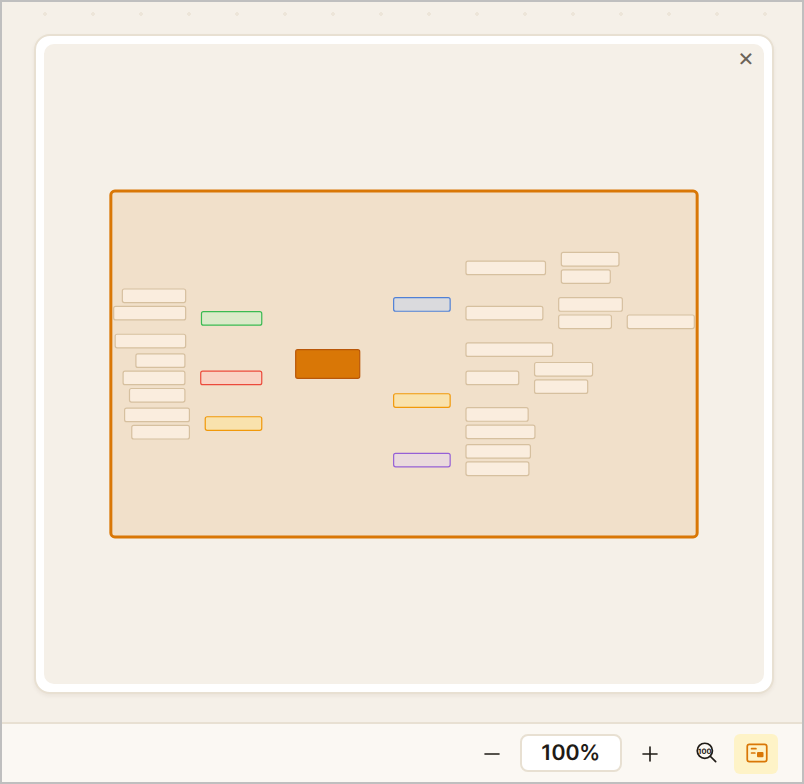
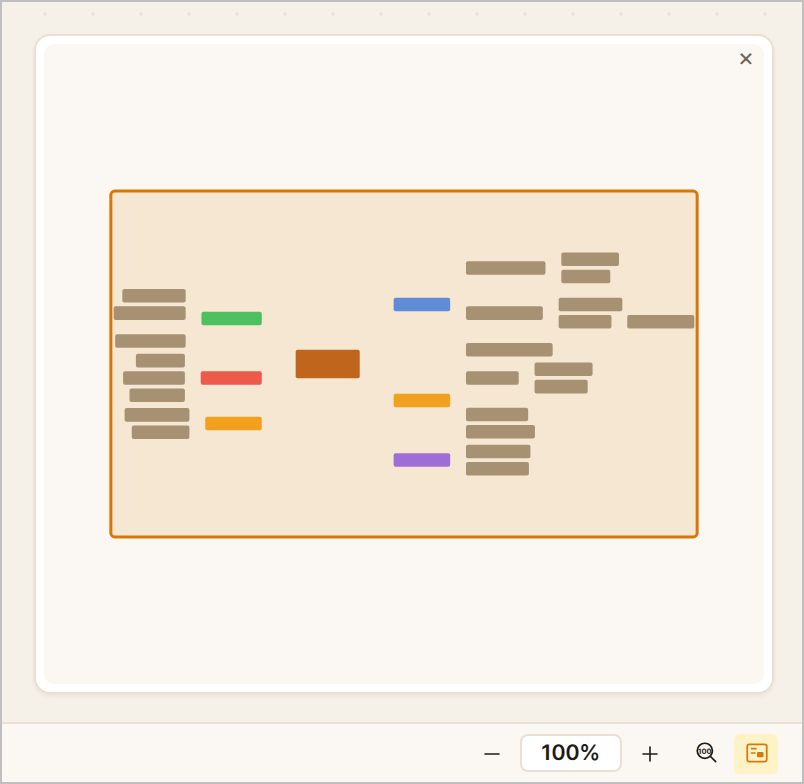
미니맵: 끄는 중 가장자리로 밀면 창이 흐른다 · 휠로 창 넘기기 · 노드는 진한 색 + 다크 접힘 숫자 시인성 (e2e291 ⑧-b~d · e2e296 ③-b)
사용자 보고 "미니맵 배경색과 맵 색이 비슷해 구분이 안 된다" · "전체 맵이
클 때 표시창을 끝으로 옮기면 빨리빨리 전체 맵이 표시되지 않는다" ·
"다크모드에서 접기 숫자의 시인성이 떨어진다".

- minimapMath.MinimapOriginMode: auto(가만히) / follow(끄는 중 — 표시창이
  밖으로 나간 만큼만 창이 따라와 가장자리에 붙는다) / hold(휠 뒤). 휠은
  shiftOrigin 으로 창만 옮긴다(화면은 그대로, 캔버스 줌으로 안 간다)
- Minimap: 노드를 팔레트 테두리색(없으면 textSubtle)으로, 배경 surfaceAlt,
  창 밖 노드는 안 그린다
- Canvas 접힘 칩 숫자색 = readableTextOn(t.primary): 다크 #F59E0B 위엔 어두운 글자
- 단위 35 · 브라우저 35(미니맵) + 13(다중 선택·다크 칩) PASS
- 문서: 10-canvas §6.8, 03-node-indicator 접힘 칩, 가이드 04, test-catalog 246차

Claude-Session: https://claude.ai/code/session_01PHMCTbMKMt1Nq2yNJHcjEs

Changed region(s): [[0.4664, 0.3061, 0.8706, 0.6122], [0.1244, 0.3673, 0.4664, 0.5816], [0.4664, 0.4898, 0.5597, 0.5204]]

diff --git a/apps/frontend/src/editor/canvas/Minimap.tsx b/apps/frontend/src/editor/canvas/Minimap.tsx
@@ -4,18 +4,23 @@
 //   · 지금 보이는 영역이 사각형으로 — 크기 = 캔버스 창 px ÷ 배율, 최소 60×45
 //   · 사각형을 끌면 화면이 따라 움직이고, 빈 곳을 누르면 그 자리가 중앙
 //   · 패널은 항상 같은 크기. 맵이 크면 화면 주변만 보이는 창이 된다
-//     (2026-09-21 "창과 표시창이 너무 작다" 보고 뒤) — 창은 사각형이
-//     가장자리에 닿을 때만 옮겨 가고, 끄는 동안은 고정이다.
+//     (2026-09-21 "창과 표시창이 너무 작다" 보고 뒤) — 가만히 있을 땐 사각형이
+//     가장자리에 닿을 때만 창이 옮겨 가고, **끄는 동안은 사각형을 가장자리로
+//     미는 만큼 창이 흐른다**(2026-09-21 "끝으로 옮기면 전체 맵이 빨리 안
+//     보인다" 보고). 휠을 굴리면 창만 움직여 다른 곳을 볼 수 있다(클릭하면 이동).
+//   · 노드는 팔레트의 **테두리색(진한 색)** 으로 칠한다 — 채움색은 캔버스와
+//     비슷해 구분이 안 됐다(2026-09-21 보고). 색이 없는 하위 노드는 textSubtle.
 // 좌표 계산은 minimapMath.ts (단위 테스트), 사양은 10-canvas.md §6.8.
 
-import { useMemo, useRef, useState } from 'react';
+import { useEffect, useMemo, useRef, useState } from 'react';
 import type { PointerEvent as ReactPointerEvent } from 'react';
 import type { ThemeTokens } from '@/components/design-tokens/theme';
 import type { LaidOutNode } from '@/layout/types';
 import { resolveNodeColors } from '@/editor/node-renderer/resolveNodeColors';
 import { useViewportStore } from '@/stores/viewportStore';
 import {
-  minimapGeometry, minimapPanelSize, miniToWorld, panForCenter, viewportWorldRect, worldBounds, worldToMini,
+  minimapGeometry, minimapPanelSize, miniToWorld, panForCenter, shiftOrigin, viewportWorldRect, worldBounds, worldToMini,
+  type MinimapOriginMode,
 } from './minimapMath';
 
 interface Props {
@@ -43,10 +48,34 @@ export function Minimap({ t, nodes, W, H, CX, CY, onClose }: Props) {
   const viewWorld = viewportWorldRect(W, H, CX, CY, panX, panY, zoom);
   // 직전 영역 — 창 모드에서 사각형이 가장자리에 닿기 전까지는 그대로 둔다
   const originRef = useRef<{ x: number; y: number; scale: number } | null>(null);
+  // 휠로 창을 옮긴 뒤에는 표시창과 무관하게 그 창을 지킨다 (다음 클릭·끌기까지)
+  const [hold, setHold] = useState(false);
+  const mode: MinimapOriginMode = dragging ? 'follow' : hold ? 'hold' : 'auto';
   const { panelW, panelH } = minimapPanelSize(W, H);
-  const geom = minimapGeometry(nodeBounds, viewWorld, panelW, panelH, originRef.current, dragging);
+  const geom = minimapGeometry(nodeBounds, viewWorld, panelW, panelH, originRef.current, mode);
   originRef.current = { x: geom.bounds.x, y: geom.bounds.y, scale: geom.scale };
   const view = worldToMini(geom, viewWorld);
+  const geomRef = useRef(geom); geomRef.current = geom;
+  const boundsRef = useRef(nodeBounds); boundsRef.current = nodeBounds;
+  const [, bump] = useState(0);
+
+  // 휠 = 창 옮기기 (맵이 창보다 클 때). preventDefault 가 필요해 non-passive 로 단다.
+  useEffect(() => {
+    const el = svgRef.current;
+    if (!el) return;
+    const onWheel = (e: WheelEvent) => {
+      const g = geomRef.current;
+      if (g.fits) return;
+      e.preventDefault(); e.stopPropagation();
+      const dx = e.shiftKey ? e.deltaY : e.deltaX;
+      const dy = e.shiftKey ? 0 : e.deltaY;
+      const o = shiftOrigin(g, boundsRef.current, dx, dy);
+      originRef.current = { x: o.x, y: o.y, scale: g.scale };
+      setHold(true); bump((n) => n + 1);
+    };
+    el.addEventListener('wheel', onWheel, { passive: false });
+    return () => el.removeEventListener('wheel', onWheel);
+  }, []);
 
   const miniPoint = (e: ReactPointerEvent) => {
     const r = svgRef.current?.getBoundingClientRect();
@@ -61,6 +90,7 @@ export function Minimap({ t, nodes, W, H, CX, CY, onClose }: Props) {
   const onPointerDown = (e: ReactPointerEvent<SVGSVGElement>) => {
     if (e.button !== 0) return;
     e.stopPropagation();
+    setHold(false);
     const m = miniPoint(e);
     const inside = m.x >= view.x && m.x <= view.x + view.w && m.y >= view.y && m.y <= view.y + view.h;
     // 사각형 안에서 시작 = 그 간격을 유지하며 끌기 · 밖 = 그 자리가 중앙이 되고 이어서 끌기
@@ -112,23 +142,27 @@ export function Minimap({ t, nodes, W, H, CX, CY, onClose }: Props) {
         data-minimap-scale={geom.scale}
         data-minimap-origin={`${geom.bounds.x},${geom.bounds.y}`}
         data-minimap-fits={geom.fits ? '1' : '0'}
+        data-minimap-mode={mode}
         onPointerDown={onPointerDown}
         onPointerMove={onPointerMove}
         onPointerUp={onPointerUp}
         onPointerCancel={onPointerUp}
         onClick={(e) => e.stopPropagation()}
-        style={{ display: 'block', cursor: dragging ? 'grabbing' : 'grab', overflow: 'hidden', borderRadius: 5, background: t.canvas }}
+        style={{ display: 'block', cursor: dragging ? 'grabbing' : 'grab', overflow: 'hidden', borderRadius: 5, background: t.surfaceAlt }}
       >
         {nodes.map((n) => {
           const c = resolveNodeColors(n, t);
           const r = worldToMini(geom, { x: n.x - n.w / 2, y: n.y - n.h / 2, w: n.w, h: n.h });
+          // 창 밖 노드는 그리지 않는다 (900 노드 맵에서도 가볍게)
+          if (r.x + r.w < 0 || r.y + r.h < 0 || r.x > geom.panelW || r.y > geom.panelH) return null;
+          // 대비 — 색 계열이 있는 노드는 그 계열의 진한 테두리색, 없는 하위 노드는 textSubtle
+          const fill = n.style?.fillColor ?? (c === t.nodeL2 ? t.textSubtle : c.border);
           return (
             <rect
               key={n.id}
               x={r.x} y={r.y} width={Math.max(2, r.w)} height={Math.max(1.5, r.h)} rx={1}
-              fill={n.style?.fillColor ?? c.fill}
-              stroke={n.style?.borderColor ?? c.border}
-              strokeWidth={0.6}
+              fill={fill}
+              fillOpacity={0.9}
             />
           );
         })}

diff --git a/apps/frontend/src/editor/canvas/minimapMath.ts b/apps/frontend/src/editor/canvas/minimapMath.ts
@@ -78,14 +78,23 @@ export function minimapPanelSize(W: number, H: number): { panelW: number; panelH
 
 const clamp = (v: number, lo: number, hi: number) => Math.min(hi, Math.max(lo, v));
 
+/** 창(영역) 원점을 어떻게 정하나 — Minimap 컴포넌트의 상태에서 온다 */
+export type MinimapOriginMode =
+  /** 가만히 있을 때: 표시창이 가장자리(6%) 안에 있으면 직전 창 유지, 아니면 표시창 중심으로 */
+  | 'auto'
+  /** 끄는 중: 직전 창을 두되 표시창이 밖으로 나가면 **그만큼만** 따라온다(가장자리에 붙는다) —
+   *  이렇게 하면 사각형을 가장자리로 밀고 있는 동안 맵이 계속 흐른다 (2026-09-21 "끝으로
+   *  옮기면 전체 맵이 빨리 안 보인다" 보고) */
+  | 'follow'
+  /** 휠로 창을 옮긴 뒤: 표시창과 무관하게 직전 창 그대로 (다음 클릭·끌기 전까지) */
+  | 'hold';
+
 /**
  * 미니맵 기하.
  *   · scale = max(맵 전체가 들어가는 배율, 표시창이 60×45 가 되는 배율)
  *   · 영역(bounds) = 패널 ÷ scale. 축마다: 맵이 그 안에 들어가면 **맵을 가운데**,
- *     안 들어가면 **표시창 중심을 가운데**로 두되 맵 경계 밖으로는 나가지 않는다.
- *   · `prev`(직전 영역)가 있으면 **표시창이 가장자리(6% 여백) 안에 있는 동안은
- *     그대로 둔다** — 끌 때마다 창이 따라 움직이면 사각형이 제자리에 서고 맵이
- *     흐르는 조이스틱이 된다. `freeze` 는 끄는 중(포인터 잡고 있는 동안) 무조건 유지.
+ *     안 들어가면 mode 대로 (`MinimapOriginMode`) — 어느 경우든 맵 경계 밖으로는 안 나간다.
+ *   · 배율이 바뀌면 직전 창은 버린다.
  */
 export function minimapGeometry(
   nodeBounds: Rect | null,
@@ -93,7 +102,7 @@ export function minimapGeometry(
   panelW: number,
   panelH: number,
   prev?: { x: number; y: number; scale: number } | null,
-  freeze = false,
+  mode: MinimapOriginMode = 'auto',
 ): MinimapGeom {
   const pb = paddedBounds(nodeBounds);
   const fitScale = Math.min(panelW / pb.w, panelH / pb.h);
@@ -106,9 +115,17 @@ export function minimapGeometry(
     if (mapLen <= winLen) return mapLo + mapLen / 2 - winLen / 2; // 맵이 들어간다 → 가운데
     const lo = mapLo, hi = mapLo + mapLen - winLen;
     if (prevLo !== undefined) {
+      if (mode === 'hold') return clamp(prevLo, lo, hi);
+      if (mode === 'follow') {
+        // 표시창이 창 밖으로 나간 만큼만 민다 — 사각형은 가장자리에 붙고 창이 흐른다
+        let next = prevLo;
+        if (viewLo < next) next = viewLo;
+        else if (viewLo + viewLen > next + winLen) next = viewLo + viewLen - winLen;
+        return clamp(next, lo, hi);
+      }
       const m = winLen * 0.06;
       const inside = viewLo >= prevLo + m && viewLo + viewLen <= prevLo + winLen - m;
-      if (freeze || inside) return prevLo;
+      if (inside) return prevLo;
     }
     return clamp(viewLo + viewLen / 2 - winLen / 2, lo, hi);
   };
@@ -116,6 +133,19 @@ export function minimapGeometry(
   const x = axis(pb.x, pb.w, view.x, view.w, winW, usePrev?.x);
   const y = axis(pb.y, pb.h, view.y, view.h, winH, usePrev?.y);
   return { bounds: { x, y, w: winW, h: winH }, scale, panelW, panelH, fits };
+}
+
+/** 휠로 창을 옮긴다 — mini px 만큼, 맵 경계 안에서. 맵이 창에 들어가는 축은 움직이지 않는다 */
+export function shiftOrigin(
+  g: MinimapGeom, nodeBounds: Rect | null, dxMini: number, dyMini: number,
+): { x: number; y: number } {
+  const pb = paddedBounds(nodeBounds);
+  const one = (mapLo: number, mapLen: number, winLen: number, cur: number, d: number) =>
+    mapLen <= winLen ? cur : clamp(cur + d / g.scale, mapLo, mapLo + mapLen - winLen);
+  return {
+    x: one(pb.x, pb.w, g.bounds.w, g.bounds.x, dxMini),
+    y: one(pb.y, pb.h, g.bounds.h, g.bounds.y, dyMini),
+  };
 }
 
 export function worldToMini(g: MinimapGeom, r: Rect): Rect {

diff --git a/apps/frontend/src/editor/canvas/minimapMath.test.ts b/apps/frontend/src/editor/canvas/minimapMath.test.ts
@@ -3,7 +3,7 @@
 
 import {
   MINIMAP_MIN_VIEW, minimapGeometry, minimapPanelSize, miniToWorld, paddedBounds, panForCenter,
-  viewportWorldRect, worldBounds, worldToMini,
+  shiftOrigin, viewportWorldRect, worldBounds, worldToMini,
 } from './minimapMath';
 
 let failed = 0;
@@ -72,12 +72,25 @@ check('⑦ 창 안에서 움직이면 창은 그대로', g2.bounds.y, prev.y);
 const far = { ...view, y: view.y + 6000 };                // 창 밖으로
 const g3 = minimapGeometry(tall, far, 288, 288, prev);
 check('⑦ 창 밖으로 나가면 창이 따라온다 (표시창 중심으로)', r2(g3.bounds.y + g3.bounds.h / 2), r2(far.y + far.h / 2));
-const g4 = minimapGeometry(tall, far, 288, 288, prev, true);
-check('⑦ 끄는 동안은 밖으로 나가도 창 고정', g4.bounds.y, prev.y);
+// 끄는 중(follow): 표시창이 창 밖으로 나간 **만큼만** 창이 따라온다 — 사각형이 가장자리에 붙는다
+const g4 = minimapGeometry(tall, far, 288, 288, prev, 'follow');
+check('⑦ 끄는 중 밖으로 나가면 창이 그만큼만 따라온다 (아래 끝이 표시창 아래 끝)', r2(g4.bounds.y + g4.bounds.h), r2(far.y + far.h));
+check('⑦ 끄는 중 창 안이면 그대로', minimapGeometry(tall, moved, 288, 288, prev, 'follow').bounds.y, prev.y);
+const up = { ...view, y: prev.y - 300 };                  // 위로 조금 넘김
+check('⑦ 위로 넘기면 위 끝이 표시창 위 끝', r2(minimapGeometry(tall, up, 288, 288, prev, 'follow').bounds.y), r2(up.y));
+// 휠 뒤(hold): 표시창이 어디 있든 직전 창 그대로
+check('⑦ hold 는 밖으로 나가도 창 그대로', minimapGeometry(tall, far, 288, 288, prev, 'hold').bounds.y, prev.y);
 const top = { ...view, y: -20000 };                       // 맵 위 끝(−7200) 너머
 const g5 = minimapGeometry(tall, top, 288, 288);
 check('⑦ 창은 맵 경계 밖으로 나가지 않는다 (위 끝에서 멈춤)', r2(g5.bounds.y), r2(paddedBounds(tall).y));
 check('⑦ 배율이 바뀌면 직전 창은 버린다', minimapGeometry(tall, moved, 288, 288, { ...prev, scale: prev.scale * 2 }).bounds.y !== prev.y, true);
+
+// ⑦-b 휠로 창 옮기기 — mini px ÷ 배율만큼, 맵 경계 안에서, 맵이 들어가는 축(가로)은 그대로
+const o1 = shiftOrigin(gt, tall, 50, 120);
+check('⑦-b 세로로 120px ÷ 배율', r2(o1.y - gt.bounds.y), r2(120 / gt.scale));
+check('⑦-b 가로는 맵이 창에 들어가니 안 움직인다', o1.x, gt.bounds.x);
+const o2 = shiftOrigin(gt, tall, 0, -1e9);
+check('⑦-b 위로 아무리 굴려도 맵 위 끝(여백 포함)에서 멈춘다', r2(o2.y), r2(paddedBounds(tall).y));
 
 // ⑧ 왕복 — world ↔ mini
 const wr = { x: 500, y: 100, w: 300, h: 200 };

diff --git a/apps/frontend/src/editor/canvas/Canvas.tsx b/apps/frontend/src/editor/canvas/Canvas.tsx
@@ -40,6 +40,7 @@ import { EdgeRenderer } from '@/editor/edge-renderer/EdgeRenderer';
 import { collapseAnchor, type FallbackDir } from '@/editor/canvas/collapseAnchor';
 import { CollabCursor } from '@/editor/collaboration/CollabCursor';
 import { Minimap } from './Minimap';
+import { readableTextOn } from '@/editor/node-renderer/resolveNodeColors';
 import { COLLAB_PRESENCE_UI } from '@/config/featureFlags';
 import { ProCursorLayer } from '@pro';
 import { zoneAxesFor, zoneAt } from './dropGeometry';
@@ -1926,12 +1927,15 @@ function CollapseControl({
     return wrap(
       <>
         <circle r={r} fill={t.primary} stroke={t.primary} strokeWidth="1.4" />
+        {/* 숫자 색은 칩 밝기에 맞춘다 — 다크 테마의 primary(#F59E0B)는 밝은
+            주황이라 흰 글자가 묻혔다 (2026-09-21 보고 "다크모드에서 접기
+            숫자 시인성이 떨어진다"). 라이트(#D97706)는 그대로 흰 글자. */}
         <text
           y={3.4}
           textAnchor="middle"
           fontSize="9.5"
           fontWeight={700}
-          fill="#fff"
+          fill={readableTextOn(t.primary)}
         >{label}</text>
       </>,
       `펼치기 — 숨은 노드 ${count}개`,

diff --git a/docs/05-implementation/test-catalog.md b/docs/05-implementation/test-catalog.md
@@ -124,11 +124,11 @@
 | e2e288 | **Pan 모드에서 노드가 딸려 오던 것 + [모두 펼치기·접기]의 범위를 선택에 맞춘다** (2026-09-21 사용자 요청 둘) | 구성: 진짜 vite + 크로미움 + **진짜 에디터**. 접힘은 화면에 몇 개 그려졌나가 아니라 **문서의 `collapsed`** 로 가리고, 선택은 스토어로 직접 세운다. **① Pan** — 배지 문구 · 노드를 끌어도 **중심 기준 좌표가 그대로**(473,−244 → 473,−244)이고 화면만 끌린다(722 → 942) · 모드를 끄면 노드 드래그가 화면을 끌지 않는다. **② 범위** — 선택 없음: 전체 접기/펼치기 · **보통 노드**: 그 아래만 (★ 같은 날 오후 e2e289 에서 **고른 노드 자신까지 접는 쪽**으로 뒤집혔다 — 이 행의 기대값도 그때 함께 고쳤다) · 다른 가지는 건드리지 않는다 · ★**중심 선택은 선택 없음과 같다**(셈으로도 같다 — 중심의 하위 = 맵 전체). **17항목 PASS** · 단위 `expandScope.test.ts` **13항목**(중심이 섞인 다중 선택 포함) · 되돌려 깨짐 확인(Pan 모드에서 노드가 473 → 719 로 끌려간다). ★ **함정** — 맵을 열면 **노드 하나가 이미 선택돼 있다**(실측 `sel=b1-2`). "선택 없음" 을 클릭만으로 만들려다 시험이 헛돌았다 — 스토어로 `select(null)` 해야 한다. ★ **뒤집은 결정** — 2026-07 에는 "Pan 모드여도 노드는 움직인다" 였다(모드 표시가 없어 고장난 줄 알았기 때문). 지금은 배지·테두리·커서가 모드를 말하므로 **모드가 한 가지 일만 한다**. ⊞/⊟ 전용 단추는 ＋/− 와 같은 일이 되어 **없앴다**(§5-1-6) | 10-canvas §6.5 · §21.2-A |
 | e2e293 | **문서함 [↻ 새로고침] — 폴더·내 맵·공유받은 맵을 다시 읽는다** (2026-09-21 사용자 요청: "공유받은 문서 목록을 갱신하려고 Ctrl+F5 를 누른다 — 내 문서함 뒤에 새로고침 버튼") | 구성: 인증 모드 vite + 진짜 크로미움(`scripts/doc-shots/guide01-browser-refresh.mjs`), API 는 route 스텁(phase 0: A맵 · phase 1: A·B맵 + 공유 S맵, 두 번째 `/maps` 는 700ms 지연). ① 버튼이 "내 문서" 바로 오른쪽, 첫 목록에 A맵만 ② 서버 상태를 바꾼 뒤 클릭 → 읽는 동안 `↻ 읽는 중…` + 비활성, 끝나면 **`/folders`·`/maps`·`/maps/shared` 각 +1**, 새로 저장된 B맵과 **공유받은 S맵**이 목록에, 버튼 다시 활성 ③ 두 번째 클릭도 +1/+1/+1. **9항목 PASS**(2회 연속). 알아 둘 것: 문서함을 열면 첫 목록을 두 번 읽는다(mount 효과 + lastSavedAt 효과 — 예전부터 그랬다, 이번 범위 아님) | document-library §5 |
 | e2e292 | **MCP — ChatGPT 에서 쓸 수 있나 + 도구 힌트(`annotations`)** (2026-09-21 사용자 질문: "ChatGPT 채팅창으로도 MCP 맵 도구를 쓸 수 있나? 어떻게 설정하나?") | 구성: `test:mcp` 의 JSON-RPC 단위(`mcp-jsonrpc.test.mjs`) — 전체 41항목 PASS(새로 6). **판정** — ChatGPT 개발자 모드의 커스텀 MCP 커넥터 요건(Streamable HTTP · OAuth · 동적 클라이언트 등록)은 §10 으로 **이미 갖춰져 있었다**. 빈 것은 `readOnlyHint` 하나 — ChatGPT 는 이 힌트가 없는 도구를 전부 쓰기로 보고 **맵 목록·읽기까지 매번 확인 창**을 띄운다. 그래서 여덟 도구에 `annotations` 를 달았다: ①읽기 전용은 `list_maps`·`get_map`·`get_open_map` 셋 ②나머지 다섯은 `readOnlyHint:false` ③`destructiveHint:true` 는 **있는 내용을 바꾸는** `check_items`·`update_map_from_github` 둘(Codex P2 — 규격에서 false 는 "덧붙이기만" 약속이라 체크 한 글자도 true) ④덧붙이기만 하는 셋은 false ⑤GitHub 로 나가는 둘만 `openWorldHint` ⑥힌트 없는 도구 없음. **한계(정직하게)** — OpenAI 문서 사이트가 이 컨테이너의 프록시에 막혀 원문을 못 읽었고(검색 요약이 일치하는 부분만 썼다), **ChatGPT 화면을 실제로 눌러 본 것도 아니다** — 유료 요금제가 필요하고 확정은 사용자가 붙여 보는 것으로 난다(§12.4 에 모르는 것 넷). `tools/list` 에 필드가 하나 늘 뿐이라 claude.ai 커넥터는 다시 등록하지 않아도 된다 | mcp-connector.md §12 · user-guide 12 §2-D · api-spec 40a |
-| e2e291 | **미니맵 — 우하단 축소 전체 보기, 화면 사각형 끌어서 이동** (2026-09-21 사용자 요청: "100% 보기 아이콘 다음에 미니맵 아이콘, 클릭하면 열리고 화면 해상도에 맞춘 보기 창을 드래그, 토글 키 Alt+M 또는 Alt+H") | 구성: vite 개발 서버 + 진짜 크로미움(`scripts/doc-shots/guide04-minimap.mjs`), 샘플 맵. ① 처음엔 닫힘 → 상태바 버튼 → 패널이 캔버스 우하단, 버튼 켜진 색, 노드 사각형 10개 넘게 ② ★ 화면 사각형 크기 = **캔버스 창 px ÷ 배율 × 미니맵 배율**(실측 267×158 = 1556×918 ÷ 92%) ③ 200% → 너비 절반 ④ 사각형을 40×20px 끌면 pan 이 −40/배율·−20/배율 만큼, 사각형도 그만큼 이동 ⑤ 빈 곳 (8,8) 클릭 → 사각형 중심이 (8,8) ⑥ `Alt+M` 닫힘/열림, `Alt+H` 닫힘 + **Pan 모드는 그대로**, `H` 단독은 여전히 Pan 토글 ⑦ 패널 × → 닫힘 + 버튼 꺼진 색. ⑧ ★ **900 노드 맵**(가지 300 × 하위 2): 패널은 그대로 창의 24%×36%(360×320), `fits=0` 창 모드, 표시창 ≥ 60×45(실측 78×47), 패널 안에 다 보임, 30px 끌기 → pan −30/배율, 놓은 뒤에도 패널 안 ⑨ ★ 60% 에서 열면 **100%** 로 + 화면 중앙 world 점 그대로, 연 뒤 150% 자유, 다시 열면 또 100% (2026-09-21 사용자 보고 "창과 표시창이 너무 작다" + "열 때는 100% 로"). **26항목 PASS**(2회 연속) · 단위 `minimapMath.test.ts` 29항목(경계·화면 영역·panForCenter 왕복·고정 패널·fits/창 모드·창 유지/따라오기/고정/경계·mini↔world 왕복) · 가이드 04 스크린샷 2장이 같은 스크립트에서 나온다 | 10-canvas §6.8 |
+| e2e291 | **미니맵 — 우하단 축소 전체 보기, 화면 사각형 끌어서 이동** (2026-09-21 사용자 요청: "100% 보기 아이콘 다음에 미니맵 아이콘, 클릭하면 열리고 화면 해상도에 맞춘 보기 창을 드래그, 토글 키 Alt+M 또는 Alt+H") | 구성: vite 개발 서버 + 진짜 크로미움(`scripts/doc-shots/guide04-minimap.mjs`), 샘플 맵. ① 처음엔 닫힘 → 상태바 버튼 → 패널이 캔버스 우하단, 버튼 켜진 색, 노드 사각형 10개 넘게 ② ★ 화면 사각형 크기 = **캔버스 창 px ÷ 배율 × 미니맵 배율**(실측 267×158 = 1556×918 ÷ 92%) ③ 200% → 너비 절반 ④ 사각형을 40×20px 끌면 pan 이 −40/배율·−20/배율 만큼, 사각형도 그만큼 이동 ⑤ 빈 곳 (8,8) 클릭 → 사각형 중심이 (8,8) ⑥ `Alt+M` 닫힘/열림, `Alt+H` 닫힘 + **Pan 모드는 그대로**, `H` 단독은 여전히 Pan 토글 ⑦ 패널 × → 닫힘 + 버튼 꺼진 색. ⑧ ★ **900 노드 맵**(가지 300 × 하위 2): 패널은 그대로 창의 24%×36%(360×320), `fits=0` 창 모드, 표시창 ≥ 60×45(실측 78×47), 패널 안에 다 보임, 30px 끌기 → pan −30/배율, 놓은 뒤에도 패널 안 ⑨ ★ 60% 에서 열면 **100%** 로 + 화면 중앙 world 점 그대로, 연 뒤 150% 자유, 다시 열면 또 100% (2026-09-21 사용자 보고 "창과 표시창이 너무 작다" + "열 때는 100% 로"). ⑧-b ★ 끄는 중 사각형을 아래 끝으로 밀면 모드 `follow` 로 창 원점이 내려가고(창이 흐른다) 사각형은 패널 아래 끝에 붙는다, 놓으면 `auto` ⑧-c 휠 −200(CSS −100) → 창 원점 −100/배율, 모드 `hold`, **화면(pan·배율)은 그대로**, 클릭하면 풀린다 ⑧-d 노드 색이 배경(surfaceAlt)과 다르고 l1B 가지는 진한 파랑 `#3B82F6` (2026-09-21 보고 "배경과 맵 색이 비슷해 구분이 안 된다" · "끝으로 옮기면 전체 맵이 빨리 안 보인다"). **35항목 PASS**(2회 연속) · 단위 `minimapMath.test.ts` 35항목(경계·화면 영역·panForCenter 왕복·고정 패널·fits/창 모드·auto 유지/따라오기·follow 가장자리 붙기·hold·경계·휠 shiftOrigin·mini↔world 왕복) · 가이드 04 스크린샷 2장이 같은 스크립트에서 나온다. ★ 함정: vite 를 띄운 채 브랜치를 바꾸면 HMR 로 스토어 모듈이 두 벌 떠 캔버스가 옛 맵을 그린다(DOM 30 노드 vs 스토어 300 가지) — vite 를 다시 띄우면 정상 | 10-canvas §6.8 |
 | e2e290 | **MCP — GitHub 저장소 문서 → 새 맵 · 저장소 변경 반영(노드 단위)** (2026-09-21 사용자 요청: "github 저장소를 지정하면 문서 폴더 하위 문서들을 새맵으로 — 폴더 트리 그대로, 파일 제목 노드 + GitHub URL 하이퍼링크, 목차 2레벨까지 노드(중요 표·내용은 노트), 최종 업데이트 시간을 노트로" · "OOO 맵을 업데이트 해줘" · "OOO 맵의 OOO 노드를 업데이트" · "현재 선택한 노드의 내용을 업데이트" · "파일 단위 및 2레벨 목차 단위까지") | 구성: 단위 `apps/api/test/github-docs.test.mjs` **81항목**(`test:mcp`) + `mcp-jsonrpc.test.mjs` 갱신(도구 여덟 · 이름 예외 하나). 새 파일 `mcp/github-client.ts`(GitHub REST: 기본 브랜치·트리·파일별 마지막 커밋·raw 원문, `GITHUB_TOKEN` 선택, 한도 문장) · `mcp/github-docs.ts`(순수: 저장소 지정 해석 · 문서 폴더 판정 · `##`·`###` 절 나누기 · 폴더 트리→맵 · 갱신 계획·적용) · `mcp-tools.ts` 도구 둘. **확인** ① 저장소 지정: `owner/repo`·https·`.git`·`tree/브랜치/경로`, 빈 값·owner 만·이상한 글자 거절 ② 문서 폴더 자동(docs/doc/…, 대소문자)·마크다운만·바이트순·blob sha ③ 절 나누기: front matter 걷기 · 펜스 안 `#` 은 견출 아님 · 표·목록·코드(lang)·인용문 · `####` 는 굵은 글 · 사진 줄 버림 · 제목 없는 문서 · `##` 없는 `###` ④ 맵: 루트 출처 노트 왕복 · 폴더 먼저·README 먼저·이름순 · 1레벨 색·방향 · 폴더/문서 링크·라벨 · `최종 업데이트: 시각 · 커밋 · 파일` 왕복 · 머리말 문단·표 노트 · `##`→자식·`###`→손자 · 커밋 모름 "(알 수 없음)" · id 전부 유일 ⑤ 계획: 추가·수정·삭제·그대로 · 옛 맵(sha 없음)은 커밋 시각 비교(뒤면 수정·앞이면 그대로) · 폴더·문서 범위 · 범위 판정(폴더·문서·절·전체·아님) · 절 제목 사슬 ⑥ 적용: 원본 불변 · 수정 노드 id 유지 · 갱신 노트 새것 · 절은 제목으로 짝지어 id 유지, 없어진 절 삭제·새 절 추가 · 생성 노트만 교체·사용자 노트 보존 · 사용자 노드 보존 · 루트 "가져옴" 갱신 · 1레벨 색 유지 · 빈 폴더 함께 삭제 · 새 폴더 사슬(폴더는 문서 앞) · **절 범위는 그 절만**(문서 제목·갱신 노트·다른 절 그대로) · 사라진 절은 알리고 둔다 · 다른 저장소 링크 무시 ⑦ Codex 지적 둘 반영: 트리는 문서 폴더 아래만 재귀(가짜 fetch 로 한 층씩 내려감 확인)·잘리면 중단, 출처 경로의 공백 왕복. **한계(정직하게)** — 진짜 GitHub·DB·Claude 대화로는 못 재 봤다(이 컨테이너는 GitHub API 연결이 막혀 있다). dev 배포 뒤 "okpojung/easymindmap 저장소의 docs/user-guide 폴더를 emm 새 맵으로" → "그 맵을 업데이트 해줘" 로 확인이 남았다. 익명은 문서 50개까지 — 더 크면 API 서버 `GITHUB_TOKEN` | mcp-connector §9.14 · §2-3 · api-spec 40a · user-guide 12 |
 | e2e289 | **Pan 모드에서 노드를 고를 수 없던 것 + [모두 접기]가 가지를 통째로 닫지 않던 것** (2026-09-21 사용자 보고 둘 — e2e288 후속) | 구성: 진짜 vite + 크로미움 + **진짜 에디터**(아웃라인 분할 포함). **원인** — Pan 모드에서 누르는 즉시 `setPointerCapture` 를 걸어 뒤따르는 `click` 이 노드가 아니라 **캡처한 `<svg>` 로** 갔다. 그래서 노드의 `onClick`(선택) 대신 `<svg>` 의 `onClick`(빈 곳 = 선택 해제)이 떠서 **고를 수도, 고른 것을 지킬 수도 없었다** — 맵→아웃라인 동기화가 끊긴 것도, ＋/− 의 '선택한 노드만' 이 안 먹은 것도 여기서 나왔다. **고침 ①** 노드 위에서 시작한 Pan 은 **움직인 뒤에만** 잡는다(`deferCapture`). **고침 ②** `collapseSubtree` 가 **고른 노드 자신까지** 접는다(2026-09-08 의 '직계 자식은 남긴다' 를 사용자가 뒤집었다 — *"지금은 해당 노드의 2레벨 이하의 노드만 접힌다"*). **19항목 PASS** — ① 배지 문구 ② Pan 모드에서 누른 노드가 선택되고 다른 노드로 옮겨간다 ③ ★ 맵에서 고른 것이 **아웃라인 줄에 강조로 비친다**(배경 `rgb(254,243,199)` · `font-weight 600`) ④ 아웃라인 → 맵도 그대로 ⑤ ★ 그래도 **끌어 옮기는 것은 막힌다**(부모 `b1` → `b1` 그대로, 화면은 끌린다, 선택도 안 바뀐다) ⑥ ★ 눌러 고른 노드에 `−` → **그 가지가 통째로**(`b1` 까지) 접히고 다른 가지는 그대로, `+` 로 되돌아온다 ⑦ 빈 곳 클릭은 Pan 모드에서도 선택 해제 ⑧ Pan 을 끄면 붙여넣기가 되살아난다(`b1` → `b5`) ⑨ 콘솔 오류 0. 단위 `subtreeCollapse.test.ts` 7 → **9항목**(잎만 고른 경우 · 여럿 고른 경우 추가). **되돌려 깨뜨리기** — `deferCapture` 를 끄면 ②③⑤⑥ 이 `sel=null` 로 6건 FAIL(사용자가 본 그대로). ★ **함정** — 빈 캔버스 좌표를 고정으로 쓰면 왼쪽 사이드바에 맞는다(실측 (40,700) 은 `DIV`) → `elementFromPoint` 로 `svg` 인 자리를 **찾아서** 누른다 | 10-canvas §6.5 · §21.2-A · 04-레이아웃과-보기 |
 | e2e294 | **유료 맵은 pro 없이도 새지 않는다 — 서버가 자르고, 검색도 2레벨까지만** (2026-09-21, 27b §10 2단계. 사용자가 법·세무 확인과 PG 계약이 끝났다고 알린 뒤 시작) | 구성: 진짜 PostgreSQL 16 + **진짜로 빌드한 API**(:3010) + 진짜 HTTP(비인증 = 손님의 눈). 판정은 "무엇이 남았나" 가 아니라 **"응답 어디에도 그 글자가 없다"** 다 — 깊이 4에 노트·첨부·링크를 층층이 심은 맵으로 센다. **48항목 PASS**. ① 무료일 때는 4레벨·노트까지 전부 온다(기준선) ② 값 매기기 — 하한 1,000원 미만·상한 100,000원 초과·소수점·비숫자 **네 가지 거절**, 매기면 `visibility` 가 함께 `paid` 로, 지식창고에서 내려가지 않는다 ③ ★★ **유료 맵도 열리되 잘려 온다** — 중심·1레벨은 보이고 3·4레벨 없음, **2레벨 노드의 노트 없음**(가장 틀리기 쉬운 자리), 중심 노트·링크 이름·첨부 이름·코드 노트 전부 없음, `stats` 는 자르기 **전**(6노드·깊이 4·첨부 1·노트 3·가려진 3) ④ `og.html` 로도 안 샌다(같은 판정을 쓰는 둘째 길) ⑤ ★★ **스무고개가 안 통한다** — 3레벨 낱말·노트 낱말로는 그 맵이 검색에 안 잡히고, **2레벨(목차) 낱말로는 잡힌다**(발견 자체는 된다). 카드에 값이 실리고 건수도 2레벨 색인으로 센다 ⑥ 값 없이 `visibility='paid'` 로 바꾸는 길은 400 으로 막힌다(값 없는 유료 맵을 못 만든다) ⑦ 지식창고 토글이 값을 내리지 않는다(회귀 — `!== 'public'` 이면 값이 조용히 내려갔다) ⑧ 값을 내리면 4레벨·노트·검색이 **전부 돌아온다** ⑨ `/v1/features` 에 `map-sales` 가 꺼진 채 이유와 함께 있다. **되돌려 깨뜨리기 두 번** — 자르기를 빼면 ③⑦ 이 **14건 FAIL**(전문이 그대로 나간다), 색인 경계를 빼면 ⑤ 가 **3건 FAIL**(3레벨 낱말로 맵이 잡힌다). 단위 `trim-for-preview.test.mjs` **37항목**(★ 목록에 없는 새 칸은 나가지 않는다 · 여러 중심주제 · 깊이를 늘려도 노트는 안 나간다 · 깨진 문서는 빈 미리보기). DB: 델타를 **돌고 있는 DB 에 적용**해 확인하고, 빈 DB 에 `schema.sql` 을 부어 **네 객체가 같게 생기는지**(칼럼·함수·인덱스·제약) 대조했다. ★ **설계에서 바꾼 것 둘** — ⑴ 색인 경계를 '유료로 바꿀 때 다시 만든다'(절차)가 아니라 **트리거가 두 색인을 늘 함께** 만드는 쪽으로(절차가 한 번 빠지면 전문인 채로 남고 아무도 모른다) ⑵ 402 스텁 대신 **`/v1/features`** 로(코어에 유료 경로를 뚫지 않는다 — open-core-boundary §4.1). ★ **함정** — 실측 DB 에 `{map:{text,children}}` 모양의 옛/시험 문서가 있었다. `root`·`branches` 가 없어 `preview_text` 가 NULL 이 되는데, **그 경우 내용 검색에서 빠지는 쪽(fail-closed)이라 새지는 않는다** | 27b §5 · api-spec `/published` · 27b §0.2 |
-| e2e296 | **러버밴드 다중 선택 + 레이아웃 탭 — 고른 노드 전부의 하위에 적용 · 접힘 숫자 배지 유지** (2026-09-21 사용자 보고: "3개를 드래그해 골라 트리·오른쪽으로 바꾸면 첫 노드만 바뀐다 / 접힌 노드를 여럿 고르면 첫 노드의 접힌 숫자가 사라진다") | 구성: vite 개발 서버 + 진짜 크로미움(`scripts/doc-shots/guide04-layout-multi.mjs`), 샘플 맵. ① b1·b2·b3 다중 선택(대표 b1) → 탭 안내 "3개 노드 선택 — 각 노드의 하위…", `트리 · 오른쪽` 클릭 → **셋 다** `tree-right`, b4·맵(root) 그대로, undo 한 단계, undo 로 셋 다 복구 ② 단일 선택은 예전처럼 그 노드만(안내 "선택한 노드(b2) 하위") ③ b1·b2·b3 접고 단일 선택하면 선택 노드 배지만 숨는다(전제) → 다중 선택이면 **b1 배지도 남고** 숨은 노드 수(8)가 보이며 +/− 인디케이터는 없다. **11항목 PASS**(2회 연속) · 단위 `layoutBulk.test.ts` 9항목(셋 한 번에 · 하위 오버라이드 초기화 · root 그대로 · undo 1단계 · root 건너뜀 · 빈 목록) · **되돌려 깨짐 확인**(배지 필터를 예전으로 되돌리면 ③ FAIL) · 가이드 04 스크린샷 2장 | 11-selection §2 · 08-layout |
+| e2e296 | **러버밴드 다중 선택 + 레이아웃 탭 — 고른 노드 전부의 하위에 적용 · 접힘 숫자 배지 유지** (2026-09-21 사용자 보고: "3개를 드래그해 골라 트리·오른쪽으로 바꾸면 첫 노드만 바뀐다 / 접힌 노드를 여럿 고르면 첫 노드의 접힌 숫자가 사라진다") | 구성: vite 개발 서버 + 진짜 크로미움(`scripts/doc-shots/guide04-layout-multi.mjs`), 샘플 맵. ① b1·b2·b3 다중 선택(대표 b1) → 탭 안내 "3개 노드 선택 — 각 노드의 하위…", `트리 · 오른쪽` 클릭 → **셋 다** `tree-right`, b4·맵(root) 그대로, undo 한 단계, undo 로 셋 다 복구 ② 단일 선택은 예전처럼 그 노드만(안내 "선택한 노드(b2) 하위") ③ b1·b2·b3 접고 단일 선택하면 선택 노드 배지만 숨는다(전제) → 다중 선택이면 **b1 배지도 남고** 숨은 노드 수(8)가 보이며 +/− 인디케이터는 없다. ③-b ★ 접힘 칩 글자색: 라이트는 밝은 글자, **다크 테마(primary `#F59E0B`)에서는 어두운 글자** (2026-09-21 보고 "다크모드에서 접기 숫자 시인성이 떨어진다"). **13항목 PASS**(2회 연속) · 단위 `layoutBulk.test.ts` 9항목(셋 한 번에 · 하위 오버라이드 초기화 · root 그대로 · undo 1단계 · root 건너뜀 · 빈 목록) · **되돌려 깨짐 확인**(배지 필터를 예전으로 되돌리면 ③ FAIL) · 가이드 04 스크린샷 2장 | 11-selection §2 · 08-layout |
 | e2e295 | **유료 맵의 잠김 띠 — 전부가 아니라는 사실을 화면이 말한다** (2026-09-21, 27b §8.2. e2e294 의 화면 쪽) | 구성: 진짜 vite + 진짜 크로미움 + 진짜 API·PostgreSQL 16. ★ **화면이 무엇을 가리는가는 여기서 세지 않는다** — 가리는 것은 서버의 일이고(e2e294) 여기 온 것은 이미 잘린 것이다. 여기서 세는 것은 **"전부가 아니라는 사실을 말해 주는가"** 다. **17항목 PASS**. ① 무료 맵에는 띠가 없다(기준선) ② 유료면 띠가 뜨고 *"미리보기입니다 — 2단계까지만"* · **노트·첨부·링크는 들어 있지 않다**는 것 · 값 `4,900원` · 규모(`6개 노드 · 최대 4단계 · 첨부 1개 · 노트 2개`) · `가려진 노드 3개` 를 말한다 ③ ★ **[구매하기] 단추 대신 왜 못 사는지를 적는다**(`/v1/features` 의 `map-sales` 가 꺼져 있다) — 눌러 보고 나서야 실패를 만나지 않게. ★ 다만 **서버가 준 `reason` 을 그대로 보이지 않는다**: 그 문장은 운영자용이라("모듈이 코어보다 오래된 판일 수 있습니다") 손님에게는 뜻도 없고 속사정을 흘리는 일이다 — 화면 문구는 "아직 구매할 수 없습니다 — 판매 준비가 끝나면 열립니다" 다(시험이 '모듈' 이라는 낱말이 없는 것까지 센다) ④ 띠가 뷰어를 가리지 않는다(iframe top 86, bottom 900/900 으로 화면 안) + **iframe 안에도 3레벨이 없다**(서버가 이미 잘랐다) · 1레벨은 있다 ⑤ 콘솔 오류 0. ★ **함정** — CORS 는 `localhost` 와 `127.0.0.1` 을 **다른 출처로 본다**. 시험 브라우저가 `127.0.0.1:5199` 인데 API 의 `CORS_ORIGIN` 이 `localhost:5199` 라 화면이 통째로 "서버에 연결할 수 없습니다" 였다 | 27b §8.2 · e2e294 |
 | e2e287 | **퍼블리싱 창이 화면보다 길 때 X 가 화면 밖으로 밀려 있던 것** (2026-09-21 사용자 지적: "왜 퍼블리싱 팝업창 오른쪽에 X (닫기) 아이콘이 없나") | 구성: 진짜 vite + 크로미움 + API·PostgreSQL 16 에 실제 `PublishPanel` 을 **여러 창 높이**(640·720·800·900·1250)로 띄워 `getBoundingClientRect()` 로 잰다. **원인** — × 는 #506 부터 있었다. **보이지 않았을 뿐이다**: 이 창은 미리보기 그림까지 담아 974px 인데 바깥이 세로 가운데 정렬이라 화면보다 길면 위아래로 똑같이 넘치고, 넘친 **위쪽에 제목과 ×** 가 있다. 바깥이 `position: fixed` 라 **스크롤해서 닿을 수도 없다**(실측: 화면 900 에서 패널 top **−37**, × top **−26**). `DialogXButton` 만 옮기고 같은 규칙의 나머지 절반(`maxHeight` + 본문 스크롤)을 안 옮긴 것이 뿌리다(coding-conventions §5-1-7). **고침** — 패널을 `maxHeight: calc(100vh - 32px)` + `boxSizing: border-box` + 세로 flex 로 묶고 **본문만** 구르게 한다(제목·×·[닫기]는 고정). **확인** ① 네 높이 모두 패널이 화면 안에 들어오고 ★X·[닫기]가 보이며 **눌러서 닫힌다** ② 큰 화면에서는 예전처럼 가운데에 뜨고 **군더더기 스크롤이 없다** ③ ★ 끝까지 굴려도 X 는 제자리다. **21항목 PASS** · 되돌려 깨짐 확인(640px 에서 X top −156 — 사용자가 본 그대로). **정직하게** — 이 결함은 내 변경 이전부터 있었다(#523 시점 **928px**). #524 가 [올리기] 단추와 안내로 **46px** 을 더해 974px 이 되면서 **더 많은 창 크기에서 드러났다**. **다른 팝업은 걸리지 않는다** — 맵 저장·[저장 안 됨]은 짧고, 다중 추가·코드 블록은 textarea 가 `rows={9}`·`rows={10}` 으로 묶여 있다 | coding-conventions §5-1-7 · e2e273 · e2e284 |
 | e2e286 | **DB 백업을 NAS 로 — `OFFSITE_DIR`(표식 파일 · 바이트 비교 · 60일 보관)** (2026-09-21 사용자 결정: 첨부 NAS(hng1)와 다른 NAS hng2 의 `hng2/easymindmap_db_backup`, 지금은 dev · 운영이 서면 운영만) | 구성: `scripts/emm-db-backup.test.sh` 가짜 docker **27 → 39항목**. **⑩ 12항목** — 표식(`.emm-offsite`) 없는 디렉터리: 실패 문구 · "서버 안 백업은 남아 있다" · 로컬 파일은 지우지 않음 · `last-success` 없음(성공이 아니다) · 메일 발송 · **그 디렉터리에 아무것도 쓰지 않음**(마운트가 빠져 로컬 빈 디렉터리일 때 "보냈다"고 착각하지 않게) / 표식 있는 디렉터리: ✅ 문구(경로·60일) · 사본 생성 + 90일 지난 것 삭제 · 60일 안 된 것 유지 · `.tmp` 안 남김 · `cmp` 로 원본과 동일 · `last-success` 기록. 기존 ①~⑨ 27건 그대로 통과. **설계** — `cp → cmp → mv`(반쪽 파일이 정식 이름이 되지 않게), `timeout`(NAS 무응답 시 매달리지 않게, 마운트는 `soft`), 보관 기간은 서버(14일)와 따로(60일). `OFFSITE_CMD` 는 그대로 두되 `OFFSITE_DIR` 이 있으면 무시. **런북 §2.1** — DSM 공유 폴더·NFS 권한 · `soft` 마운트(첨부의 `hard` 와 왜 다른가) · 표식 · cron 한 줄 · 운영(VM-03 네이티브, B20 ⑤) 전환 · **복원 리허설 절차**(격리 망에 빈 PG + 그것만 보는 GoTrue 를 띄워 표 개수 비교 + 비밀번호 로그인, 운영에서는 `pg_createcluster` 둘째 클러스터). **한계(정직하게)** — NFS 마운트·복원 리허설은 이 환경에 docker·NAS 가 없어 돌리지 못했다. 스크립트 로직만 가짜 docker 로 검증했고, 실물은 dev 에서 사용자가 첫 실행한 출력으로 다듬는다 | runbook §2.1 · backlog B14 ④ · B20 ⑤ · e2e275 |
@@ -457,6 +457,10 @@
 > 겹쳐 보이지만 날짜와 함께 읽으면 유일하다. **고치지 말 것** — 그때의
 > 기록을 지금 규칙으로 고쳐 쓰면 없던 역사를 만드는 셈이다.
 
+- 2026-09-21 (246차): **e2e291 ⑧-b/c/d · e2e296 ③-b — 미니맵 창 따라오기·휠·
+  대비, 다크 접힘 숫자**. 끄는 중 사각형을 가장자리로 밀면 창이 그만큼 흐른다
+  (`MinimapOriginMode` follow), 휠은 창만(hold), 노드는 팔레트 테두리색으로.
+  접힘 칩 숫자는 `readableTextOn(t.primary)`. 브라우저 35 + 13 · 단위 35 PASS.
 - 2026-09-21 (245차): **e2e296 — 다중 선택 레이아웃 일괄 적용 · 접힘 배지 유지**.
   `LayoutTab` 이 `multiSelectedIds` 를 스타일 탭과 같은 규칙으로 받아
   `updateNodesLayoutType` 한 번에 적용. 캔버스 접힘 토글은 다중 선택 중엔 대표

diff --git a/docs/03-editor-core/canvas/10-canvas.md b/docs/03-editor-core/canvas/10-canvas.md
@@ -331,14 +331,16 @@ function zoomToPoint(
 | 그리는 것 | 배치된 노드(`visibleNodes` — 포커스 모드면 그 하위만)를 **자리·크기·색**만 작은 사각형으로. 연결선·글자는 없다 (노드가 많아도 가볍게) |
 | 패널 크기 | **항상 같은 크기** — 캔버스 창의 24% × 36%, 200~360 × 110~320 px (`minimapPanelSize`). ★ 처음에는 맵 비율을 지켜 줄였는데, 세로로 긴 맵(2,808 노드 진행트리)에서 **폭 30px 띠**가 됐다 (2026-09-21 사용자 보고 "창과 표시창이 너무 작다") |
 | 배율 | `max(맵 전체가 들어가는 배율, 표시창이 60×45 px 가 되는 배율)` (`MINIMAP_MIN_VIEW`). 맵이 들어가면(`fits`) 패널 가운데에 맵을 둔다 |
-| 창 모드 | 그 배율로 맵이 다 안 들어가면(`fits = false`) 미니맵은 **화면 주변만** 보여 주는 창이 된다. 축마다: 맵이 창에 들어가면 맵 가운데, 아니면 표시창 중심을 가운데로 두되 맵 경계 밖으로는 안 나간다. **창은 표시창이 가장자리(6%) 안에 있는 동안 그대로**고, 끄는 동안(포인터 캡처)은 무조건 고정 — 끌 때마다 창이 따라오면 사각형이 제자리에 서고 맵이 흐르는 조이스틱이 된다 |
+| 창 모드 | 그 배율로 맵이 다 안 들어가면(`fits = false`) 미니맵은 **화면 주변만** 보여 주는 창이 된다. 축마다: 맵이 창에 들어가면 맵 가운데, 아니면 `MinimapOriginMode` 대로 — **auto**(가만히): 표시창이 가장자리(6%) 안에 있는 동안 직전 창 유지, 아니면 표시창 중심으로 · **follow**(끄는 중): 직전 창을 두되 표시창이 밖으로 나간 **만큼만** 따라온다 = 사각형을 가장자리로 미는 동안 맵이 흐른다 (2026-09-21 "끝으로 옮기면 전체 맵이 빨리 안 보인다" 보고 뒤. 처음엔 끄는 동안 고정이었다) · **hold**(휠 뒤): 표시창과 무관하게 그 창 그대로(다음 클릭·끌기까지). 어느 경우든 맵 경계 밖으로는 안 나간다 |
+| 휠 | 창 모드에서 미니맵 위 휠 = **창만** 옮긴다(`shiftOrigin`, 화면은 안 움직인다) — 다른 곳을 본 뒤 클릭하면 그리로 간다. 캔버스 휠 줌으로는 안 간다(stopPropagation) |
+| 노드 색 | 팔레트의 **진한 테두리색**으로 칠한다(색 계열 없는 하위 노드는 `textSubtle`), 배경은 `surfaceAlt`. 처음엔 채움색을 썼는데 캔버스와 비슷해 구분이 안 됐다(2026-09-21 보고, 다크 테마에서 특히). 창 밖 노드는 그리지 않는다 |
 | 화면 사각형 | 지금 보이는 world 영역 = **캔버스 창 px(W×H) ÷ 배율** (`viewportWorldRect`). 창을 키우거나 배율을 바꾸면 그대로 따라 커지고 작아진다 — "현재 에디트 창의 해상도" 가 곧 이 크기다 |
 | 열 때 100% | 미니맵을 **여는 순간 배율을 100% 로** (2026-09-21 사용자 요청). 화면 중앙의 world 점(`C − pan/s`)은 그대로 두고 `setZoom(100)` + `setPan(−(w − C))`. 열린 뒤 배율 조정은 자유, 100% 가 아닐 때 다시 열면 또 100% (`Canvas` 의 `minimapWasOpen` 효과) |
 | 끌기 | 사각형 안에서 누르면 포인터와 사각형 중심의 간격을 유지하며 **실시간 pan** (`panForCenter`, 포인터 캡처). 빈 곳을 누르면 **그 자리가 화면 중앙**이 되고 이어서 끌 수 있다 |
 | 좌표 | world → viewBox: `(w − C)·s + C + pan`. mini = `(w − bounds.x)·scale`. 중심 (wx, wy) 로 가는 pan = `−(w − C)·s` (fitToNodes 와 같은 식) |
 | 저장 | 열림 상태는 저장하지 않는다(세션 안에서만). 문서에도 아무것도 쓰지 않는다 |
 
-검증: 단위 `minimapMath.test.ts` 29항목 · 브라우저 e2e291 26항목(900 노드 맵의 창 모드 · 열 때 100% 포함).
+검증: 단위 `minimapMath.test.ts` 35항목 · 브라우저 e2e291 35항목(900 노드 맵의 창 모드 · 끄는 중 창 따라오기 · 휠 · 대비 · 열 때 100% 포함).
 
 ---
 

diff --git a/apps/frontend/scripts/doc-shots/README.md b/apps/frontend/scripts/doc-shots/README.md
@@ -16,8 +16,8 @@ node scripts/doc-shots/guide03.mjs  /tmp/doc-shots /tmp/article-img.b64
 node scripts/doc-shots/guide03-table.mjs /tmp/doc-shots   # 표 ⊞ 격자·팝업·코드 팝업 (+ 검증 13항목)
 node scripts/doc-shots/guide03-style-copy.mjs /tmp/doc-shots   # 스타일 복사(붓) 버튼·커서·칠한 뒤 (+ 검증 27항목)
 node scripts/doc-shots/guide05-note-table.mjs /tmp/doc-shots   # 노트 표: +표 격자 · 그려진 표 + ✎ (+ 검증 16항목)
-node scripts/doc-shots/guide04-minimap.mjs /tmp/doc-shots   # 미니맵 (+ 검증 26항목)
-node scripts/doc-shots/guide04-layout-multi.mjs /tmp/doc-shots   # 다중 선택 레이아웃 · 접힘 배지 (+ 검증 11항목)
+node scripts/doc-shots/guide04-minimap.mjs /tmp/doc-shots   # 미니맵 (+ 검증 35항목)
+node scripts/doc-shots/guide04-layout-multi.mjs /tmp/doc-shots   # 다중 선택 레이아웃 · 접힘 배지 · 다크 칩 (+ 검증 13항목)
 # ② 인증 켠 화면 — 가이드 12 계열 (vite 를 이렇게 다시 띄운다)
 VITE_SUPABASE_URL=http://auth.local VITE_SUPABASE_ANON_KEY=anon VITE_SUPABASE_AUTH_PREFIX= \
   VITE_API_URL=https://api-dev.mindmap.ai.kr npx vite --port 5199 --strictPort --host 127.0.0.1 &

diff --git a/docs/user-guide/04-레이아웃과-보기.md b/docs/user-guide/04-레이아웃과-보기.md
@@ -132,7 +132,10 @@
   (보던 자리는 그대로). 연 뒤에는 자유롭게 바꿔도 됩니다.
 - 노드가 아주 많은 맵(수백~수천)은 전체를 한 번에 그리면 사각형이 점처럼
   작아지므로, 미니맵이 **지금 보는 자리 주변만** 보여 줍니다. 사각형을
-  가장자리로 끌면 그때 창이 따라옵니다.
+  **가장자리로 밀고 있으면 그 방향으로 맵이 계속 흐르고**, 미니맵 위에서
+  **마우스 휠**을 굴리면 화면은 그대로 둔 채 미니맵만 넘겨 볼 수 있습니다
+  (원하는 곳을 클릭하면 그리로 갑니다).
+- 미니맵의 노드는 알아보기 쉽게 **가지 색의 진한 색**으로 그립니다.
 
   <img src="assets/04-minimap-window.png" width="420" alt="900 노드 맵의 미니맵 — 패널은 같은 크기이고 화면 주변 노드만 그려지며, 보이는 영역 사각형은 작아지지 않는다">
 - 닫기: 버튼을 다시 누르거나, 미니맵의 `×`, 또는 `Alt+M` / `Alt+H`.

diff --git a/docs/03-editor-core/node/03-node-indicator.md b/docs/03-editor-core/node/03-node-indicator.md
@@ -1493,6 +1493,10 @@ node._eff)가 같은 표를 따른다.
 - 접힌 노드의 칩에는 **숨은 하위 노드 수(N)** 를 표시한다 —
   **에디터·HTML 뷰어 동일** (이전에는 뷰어만 표시, 에디터는 + 아이콘).
   툴팁: `펼치기 — 숨은 노드 N개`.
+- **숫자 색은 칩 밝기에 맞춘다** (2026-09-21 사용자 보고 "다크모드에서 접기
+  숫자 시인성이 떨어진다"): `readableTextOn(t.primary)` — 라이트 primary
+  `#D97706` 위엔 흰 글자, 다크 primary `#F59E0B`(밝은 주황) 위엔 어두운
+  글자. 검증 e2e296 ③-b.
 - 칩 크기는 자릿수에 맞춰 커진다: r = 8.5(1자리) / 10.5(2자리) /
   13(3자리 이상).
   - 에디터: `Canvas.tsx` — `descCount` useMemo(전체 자손 수 맵) →
